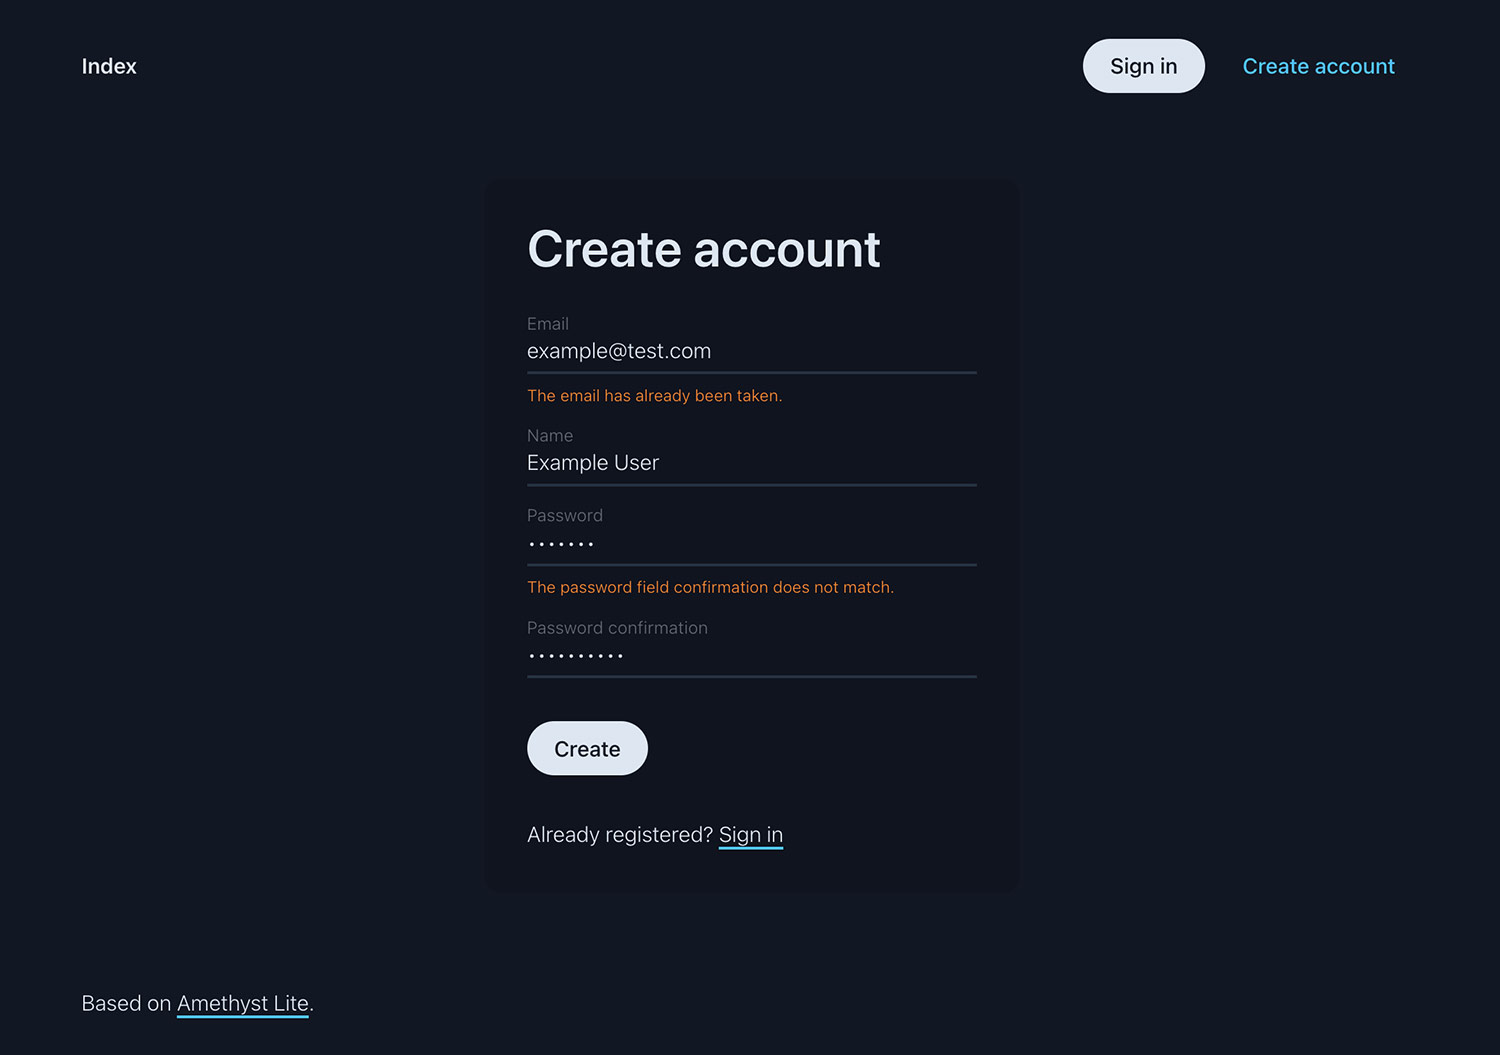
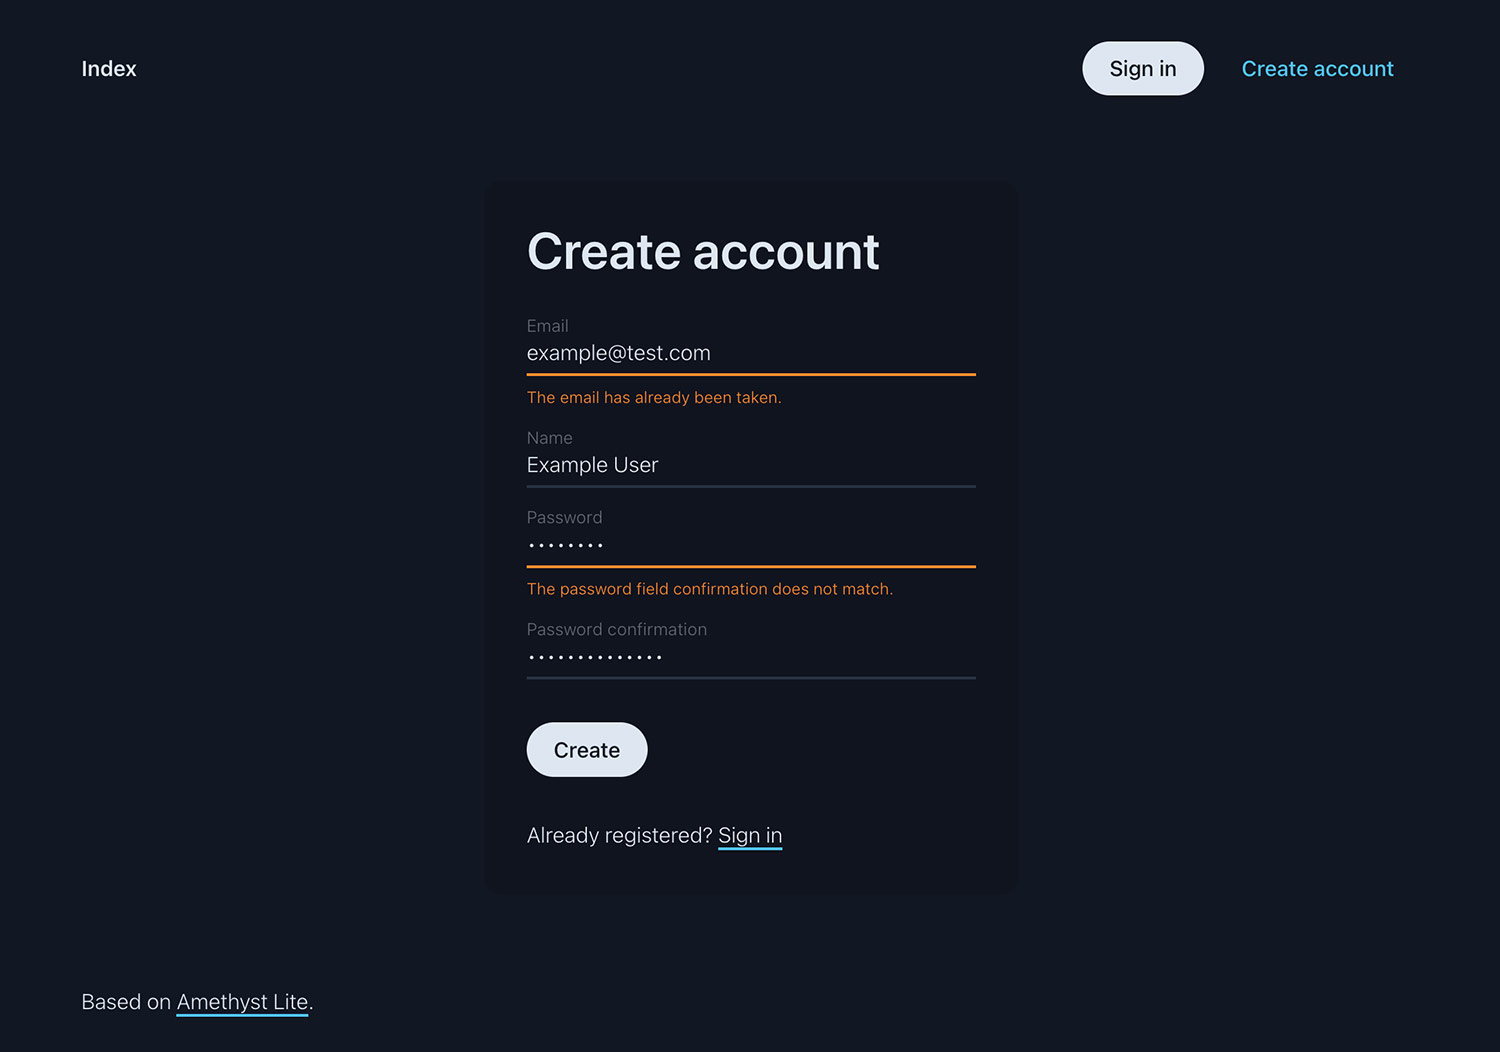
Form error style update

diff --git a/src/pages/Register.vue b/src/pages/Register.vue
@@ -38,15 +38,15 @@
                 <FormStatusErrorMessage v-if="authStore.registererror">{{ authStore.registererror }}</FormStatusErrorMessage>
 
 				<div class="mb-4">
-					<InputField v-model="form.email" type="email" label="Email" required />
+					<InputField v-model="form.email" type="email" label="Email" :error="authStore.registerfields.email" required />
                     <InputFieldErrorMessage v-if="authStore.registerfields.email">{{ authStore.registerfields.email[0] }}</InputFieldErrorMessage>
 				</div>
 				<div class="mb-4">
-					<InputField v-model="form.name" type="text" label="Name" required />
+					<InputField v-model="form.name" type="text" label="Name" :error="authStore.registerfields.name" required />
 					<InputFieldErrorMessage v-if="authStore.registerfields.name">{{ authStore.registerfields.name[0] }}</InputFieldErrorMessage>
 				</div>
 				<div class="mb-4">
-					<InputField v-model="form.password" type="password" label="Password" required />
+					<InputField v-model="form.password" type="password" label="Password" :error="authStore.registerfields.password" required />
 					<InputFieldErrorMessage v-if="authStore.registerfields.password">{{ authStore.registerfields.password[0] }}</InputFieldErrorMessage>
 				</div>
 				<div class="mb-8">

diff --git a/src/pages/ForgotPassword.vue b/src/pages/ForgotPassword.vue
@@ -35,7 +35,7 @@
 				<FormStatusErrorMessage v-if="authStore.forgotpassworderror">{{ authStore.forgotpassworderror }}</FormStatusErrorMessage>
 
 				<div class="mb-8">
-					<InputField v-model="email" type="email" label="Email" required />
+					<InputField v-model="email" type="email" label="Email" :error="authStore.forgotpasswordfields.email" required />
 					<InputFieldErrorMessage v-if="authStore.forgotpasswordfields.email">{{ authStore.forgotpasswordfields.email[0] }}</InputFieldErrorMessage>
 				</div>
 

diff --git a/src/pages/ResetPassword.vue b/src/pages/ResetPassword.vue
@@ -45,7 +45,7 @@
 			</div>
 
 			<div class="mb-4">
-				<InputField v-model="form.password" type="password" label="New password" required />
+				<InputField v-model="form.password" type="password" label="New password" :error="authStore.resetpasswordfields.password" required />
 				<InputFieldErrorMessage v-if="authStore.resetpasswordfields.password">{{ authStore.resetpasswordfields.password[0] }}</InputFieldErrorMessage>
 			</div>
 			<div class="mb-8">
